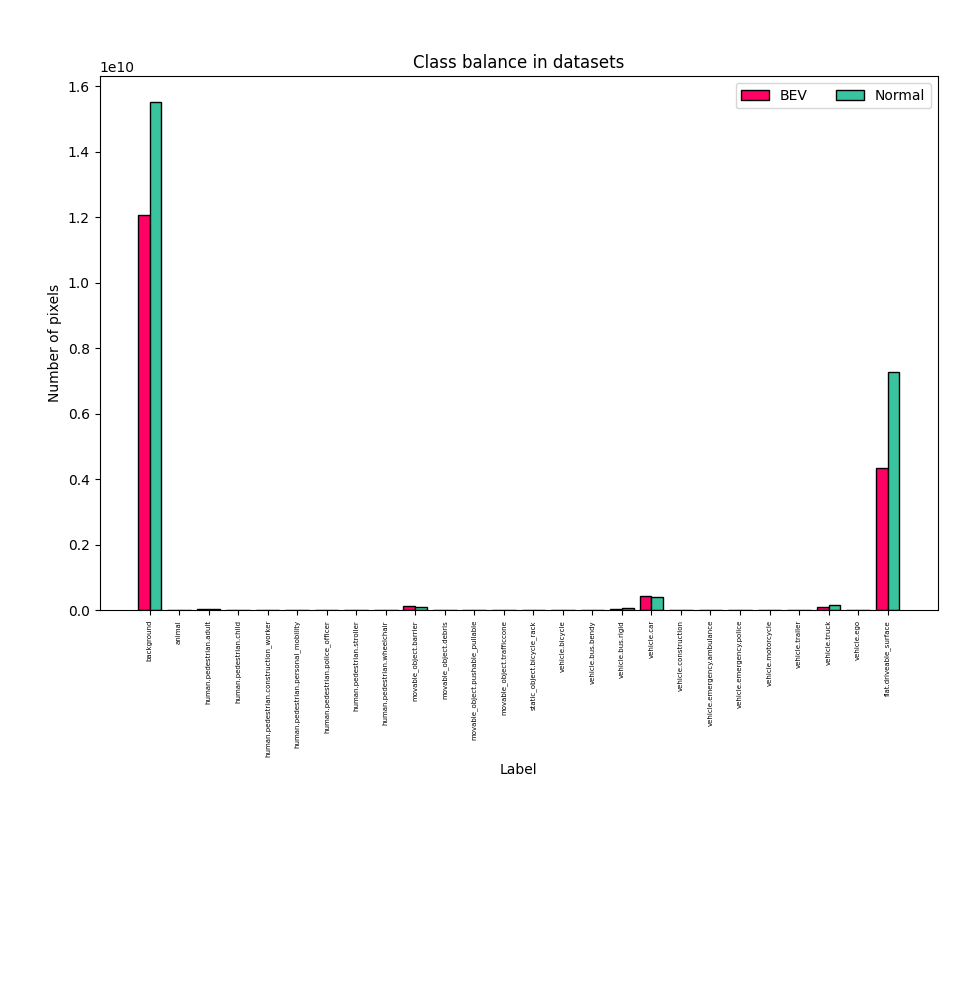
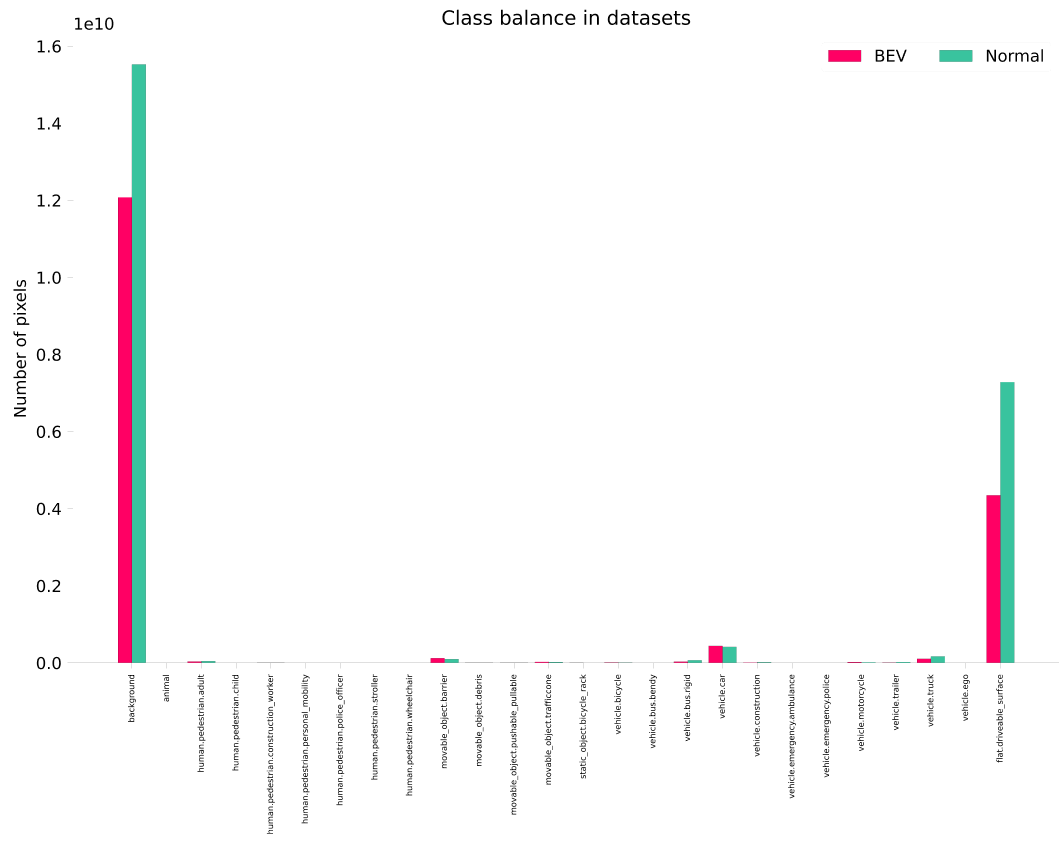
3D detection images

diff --git a/src/evaluate_instances.py b/src/evaluate_instances.py
@@ -710,10 +710,16 @@ def compute_3d_detection_metrics(gt_bboxes:List[dict],
         bbox1 = get_oriented_bbox_from_vals(bbox1)
         bbox2 = get_oriented_bbox_from_vals(bbox2)
 
-        dd  = bbox1.dd(bbox2)        # Difference in Dimensions
+        dd  = bbox1.dd(bbox2)       # Difference in Dimensions
         v2v = bbox1.v2v(bbox2)      # Volume-Volume Distance
         iou = bbox1.IoU_v(bbox2)    # Volumetric IoU
         bbd = bbox1.bbd(bbox2)      # Bounding Box Disparity
+        
+        # ax = plt.figure(figsize=(10, 10)).add_subplot(projection='3d', proj_type = 'ortho', elev=30, azim=-80)
+        # bbd = bbox1.bbd(bbox2, ax=ax)      # Bounding Box Disparity
+        # plt.tight_layout()
+        # plt.legend()
+        # plt.show()
         
         dds.append(dd)
         deds.append(ded)
@@ -733,13 +739,16 @@ def compute_3d_detection_metrics(gt_bboxes:List[dict],
             print(f"[3D-Metrics]    {label} IoU_v   Metric: {iou}")
             print(f"[3D-Metrics]    {label} V2V     Metric: {v2v}")
 
+
     if _debug_plt and len(assignments) > 0:
         if len(assignments) > 1:
-            ax_slider = _plt_axes[4]
-            slider = Slider(ax_slider, "Assignment", 0, len(assignments)-1, valinit=0, valstep=1)
-            slider.on_changed(_debug_update_plt_slider)
+            _debug_update_plt_slider(0)
+            # El slider no funciona
+            # ax_slider = _plt_axes[4]
+            # slider = Slider(ax_slider, "Assignment", 0, len(assignments)-1, valinit=0, valstep=1)
+            # slider.on_changed(_debug_update_plt_slider)
         else:
-            _debug_update_plt_slider
+            _debug_update_plt_slider(0)
 
     return tp, fp, fn, dds, deds, v2vs, vious, bbds
 # ===========================================================================================
@@ -819,7 +828,7 @@ def _debug_show_plt():
     plt.draw()
     plt.pause(0.001)
 
-def _debug_update_plt_slider(val, i, j):
+def _debug_update_plt_slider(val):
     global _plt_init, _plt_figure, _plt_axes 
     global _plt_3d_gt_bboxes, _plt_3d_dt_bboxes, _plt_3d_labels
     if not _plt_init:
@@ -828,7 +837,6 @@ def _debug_update_plt_slider(val, i, j):
 
     if _plt_3d_labels is None or len(_plt_3d_labels) == 0:
         return
-
     idx = int(val)
     bbox1, bbox2 = _plt_3d_gt_bboxes[idx], _plt_3d_dt_bboxes[idx]
     plot_bb(bbox1.getT(),default_colors[2]/255, ax=ax3)
@@ -1489,7 +1497,7 @@ def main(
             if _debug:
                 
                 if _debug_plt:
-                    debug_show_cost_matrix(padded_cost_matrix, assignments, gt_in_uids, dt_in_uids, tp, fk)
+                    # debug_show_cost_matrix(padded_cost_matrix, assignments, gt_in_uids, dt_in_uids, tp, fk)
                     _debug_show_plt()
 
                 # Render 3d scene
@@ -1566,5 +1574,5 @@ if __name__ == "__main__":
          max_association_distance=3.0,
          association_dist_type='v2v',
          save_openlabel_path=SAVE_OPENLABEL_PATH, 
-         debug=False, 
+         debug=True, 
          debug_ego_model_path=DEBUG_EGO_MODEL)

diff --git a/documents/sections/3-methodology.tex b/documents/sections/3-methodology.tex
@@ -85,8 +85,6 @@ Finally, BEVDataset contains a total of $16.427$ images, distributed as shown in
     \label{fig:bev_dataset}
 \end{figure}
 
-\hl{Include the semantic class distribution of all splits.}
-
 \subsubsection{Data augmentations}
 \label{sec:data_augmentations}
 Data augmentations are commonly used in deep learning models to mitigate overfitting during training and improve model generalization. There exists multiple types of data augmentation on the image domain: from pixel-based transformations, such as color space modifications, histogram equalization or filtering operations; to geometric transformations, including translations, rotations, shearings and homographies. These techniques have been widely applied in computer vision tasks and have shown to enhance model performance. However, performing data augmentation in \aclink{BEV} is not an easy task, as \aclink{IPM} images are already homographies of camera images, resulting in inherent distorsions.
@@ -360,8 +358,19 @@ The approach employed for this task is detailed in Algorithm~\ref{algorithm:scen
 \end{algorithm}
 \begin{figure}[h!]
     \centering
-    \includegraphics[width=0.5\linewidth]{images/methodology/pcd_raw.png}
-    \caption{Reconstructed pointcloud.}
+    \begin{subfigure}[b]{0.45\textwidth}
+        \includegraphics[width=\textwidth]{images/methodology/raw_image_0.jpg}
+        \caption{}
+        \label{fig:raw_pointcloud_a}
+    \end{subfigure}
+    \hfill
+    \begin{subfigure}[b]{0.45\textwidth}
+        \includegraphics[width=\textwidth]{images/methodology/pcd_raw.png}
+        \caption{}
+        \label{fig:raw_pointcloud_b}
+    \end{subfigure}
+
+    \caption{Source image (a) and reconstructed pointcloud (b).}
     \label{fig:raw_pointcloud}
 \end{figure}
 
@@ -371,7 +380,7 @@ The objective of this module is to compute instance-level point clouds from the 
 
 \begin{figure}[h!]
     \centering
-    \includegraphics[width=0.5\linewidth]{images/shared/no_signal.jpg}
+    \includegraphics[width=0.5\linewidth]{images/methodology/instance_scene_flow_diagram.png}
     \caption{Instance scene computation diagram.}
     \label{fig:instance_scene_diagram}
 \end{figure}
@@ -458,7 +467,7 @@ The results of this module are shown in Figure~\ref{fig:instance_scene_images}.
         \label{fig:instance_scene_images_b}
     \end{subfigure}
 
-    \caption{Resulting instances (a) in 3D and (b) projected into the front camera.}
+    \caption{Resulting instances in 3D (a) and projected into the front camera (b).}
     \label{fig:instance_scene_images}
 \end{figure}
 

diff --git a/documents/annexes.tex b/documents/annexes.tex
@@ -46,6 +46,13 @@ Standing for OpenLABEL Datasets, OLDatasets is a custom parser from NuImages for
     \label{tab:semantic_labels}
 \end{table}
 
+\begin{figure}[h!]
+    \centering
+    \includegraphics[width=\linewidth]{images/methodology/dataset_class_balance.png}
+    \caption{Dataset class balance}
+    \label{fig:dataset_class_balance}
+\end{figure}
+
 \subsection*{Rotation matrix to euler angles}
 Here \cite{euler_from_matrix} is the pseudocode.
 
